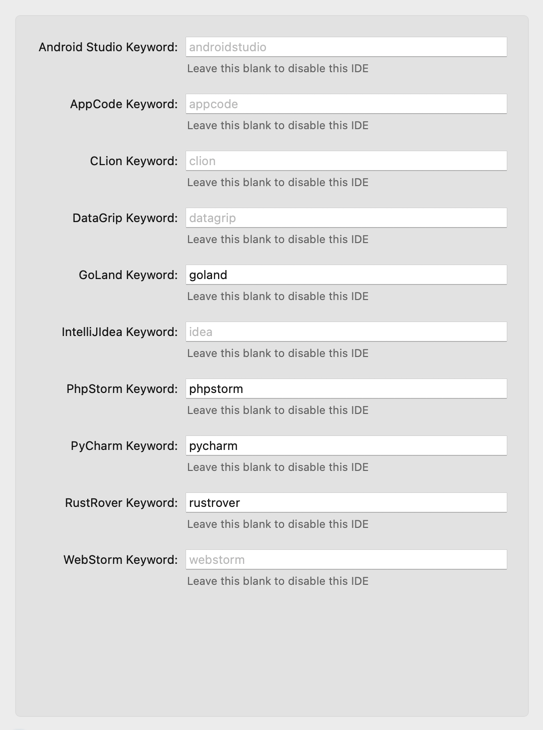
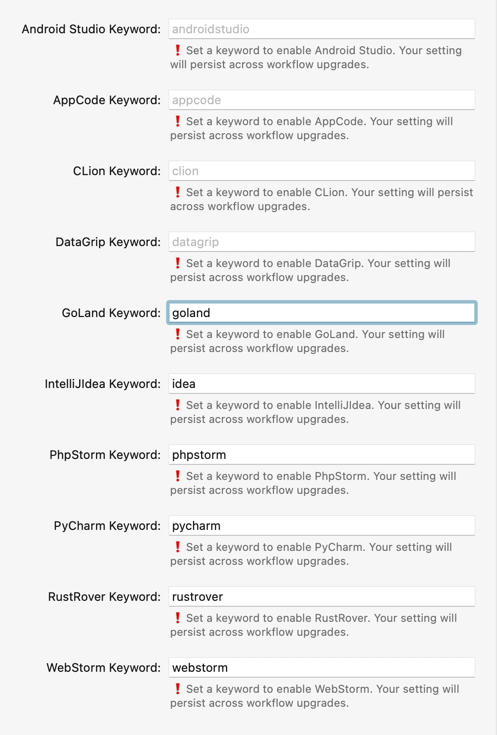
Update REAME. Make it clear that keywords need to be set

Changed region(s): [[0.0302, 0.0301, 0.9658, 0.9644]]

diff --git a/build.py b/build.py
@@ -59,7 +59,7 @@ def create_userconfigurationconfig(product: Product) -> dict:
                        'placeholder': product.keyword,
                        'required': False,
                        'trim': True},
-            'description': 'Leave this blank to disable this IDE',
+            'description': f'❗Set a keyword to enable {product.name()}. Your setting will persist across workflow upgrades.',
             'label': f'{product.name()} Keyword',
             'type': 'textfield',
             'variable': product.keyword}

diff --git a/README.md b/README.md
@@ -1,13 +1,40 @@
-# JetBrains projects for Alfred
+# Recent JetBrains Projects for Alfred
 
 ![test & release](https://github.com/artemy/alfred-jetbrains-projects/workflows/test%20&%20release/badge.svg)
 ![MIT License](https://img.shields.io/github/license/artemy/alfred-jetbrains-projects)
 
-Alfred workflow for opening your JetBrains IDEs projects
+An Alfred workflow for opening your JetBrains IDEs projects
 
 ![image](.readme/images/screenshot.png)
 
-## Supported IDEs
+## Getting started
+
+### Prerequisites
+
+Project requires Python 3.9+ to run, which is not included by default with macOS. You can install Python 3 using
+this [guide](https://docs.python-guide.org/starting/install3/osx/).
+
+### Installing
+
+Download the `alfred-jetbrains-projects.alfredworkflow` file from the latest release
+at [Releases](https://github.com/artemy/alfred-jetbrains-projects/releases) page and open it with Alfred.
+
+#### ⚠ Set a keyword for every IDE you use  ⚠
+
+By default, each IDE is inactive. Setting a keywords activates an IDE:
+![img.png](.readme/images/img.png)
+
+## How to Use
+
+Open Alfred and type keyword for your IDE (see Supported IDEs below). The workflow will display a list of recent projects (
+sorted by time last opened descending).
+
+You can further filter project list by typing additional words. Fuzzy first-letter search is supported (i.e.
+typing `map` will find `my-awesome-project`):
+
+![animation](.readme/images/animation.gif)
+
+### Supported IDEs
 
 IDE — Name — Version — Keyword
 - Android Studio — 4.1+ — androidstudio
@@ -23,32 +50,11 @@ IDE — Name — Version — Keyword
 
 Support for older IDE versions is not guaranteed.
 
-## Getting started
+## Contributing
 
-### Prerequisites
+Pull requests are welcome. For major changes, please open an issue first to discuss what you would like to change.
 
-Project requires Python 3.9+ to run, which is not included by default with macOS. You can install Python 3 using
-this [guide](https://docs.python-guide.org/starting/install3/osx/).
-
-### Installing
-
-Download the `alfred-jetbrains-projects.alfredworkflow` file from the latest release
-at [Releases](https://github.com/artemy/alfred-jetbrains-projects/releases) page and open it with Alfred.
-
-Make sure you set your keywords for each IDE you use!
-![img.png](.readme/images/img.png)
-
-### How to Use
-
-Open Alfred and type keyword for your IDE (see Supported IDEs above). Workflow will display list of recent projects (
-sorted by time last opened descending).
-
-You can further filter project list by typing additional words. Fuzzy first-letter search is supported (i.e.
-typing `map` will find `my-awesome-project`):
-
-![animation](.readme/images/animation.gif)
-
-## Running the tests
+### Running the tests
 
 Make sure to first install test dependencies:
 
@@ -73,10 +79,6 @@ coverage report -m # display coverage figures
 
 * [Python 3.9](https://docs.python.org/3.9/)
 * [coverage.py](https://coverage.readthedocs.io/) - Code coverage measurement
-
-## Contributing
-
-Pull requests are welcome. For major changes, please open an issue first to discuss what you would like to change.
 
 ## License
 
